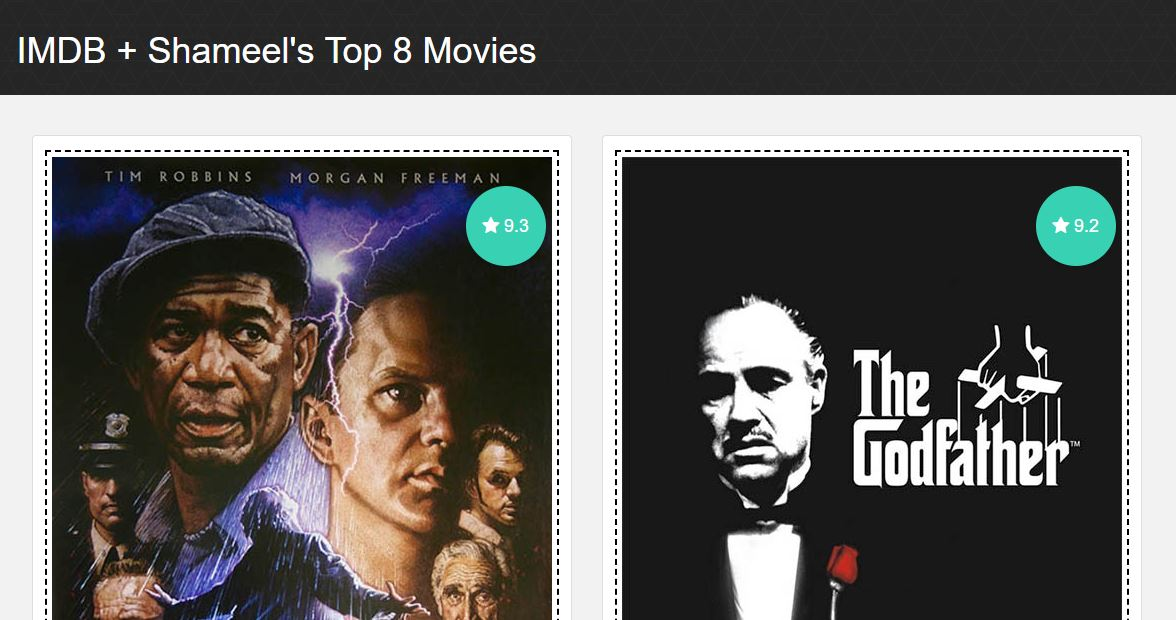
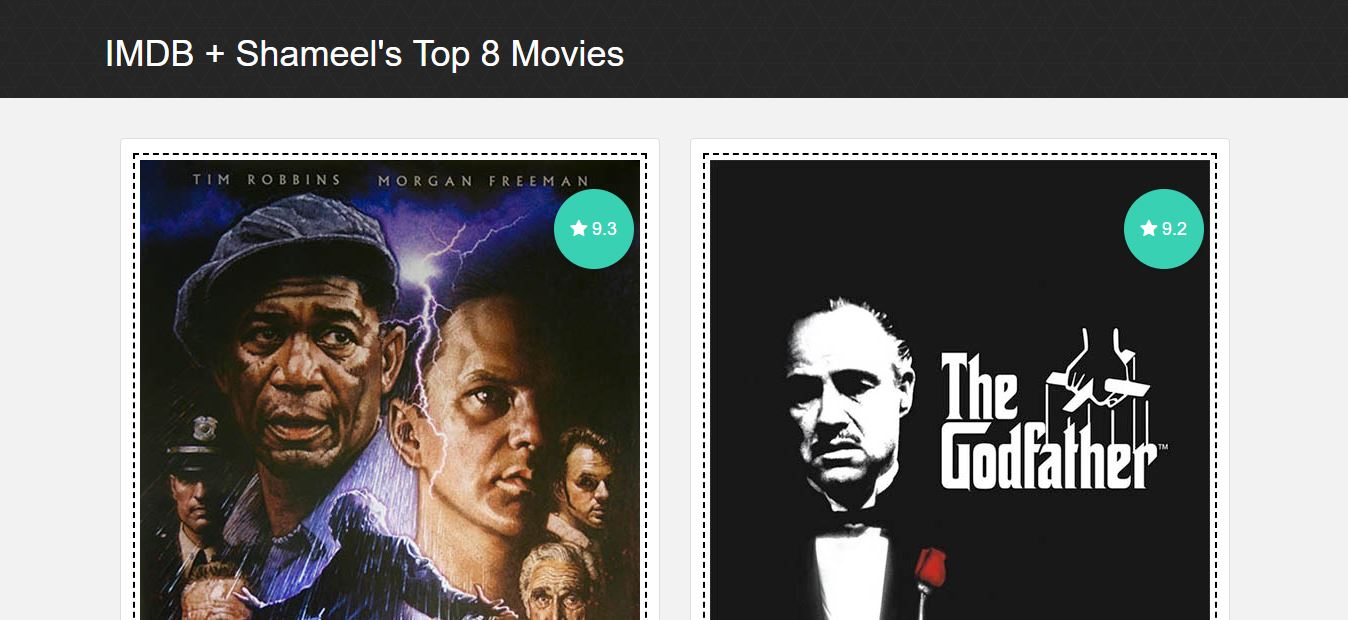
Adjusted css for portfolio modal

diff --git a/css/style.scss b/css/style.scss
@@ -292,8 +292,8 @@ nav {
         background-color: #f1f1f1;
 
         img {
-            max-width: 100%;
-            max-height: 100%;
+            width: 100%;
+            height: 100%;
             display: block;
             object-fit: cover;
         }

diff --git a/css/style.css b/css/style.css
@@ -388,8 +388,8 @@ nav ul li:hover, nav ul li:focus {
 }
 
 .item-card .screenshot img {
-  max-width: 100%;
-  max-height: 100%;
+  width: 100%;
+  height: 100%;
   display: block;
   -o-object-fit: cover;
      object-fit: cover;
